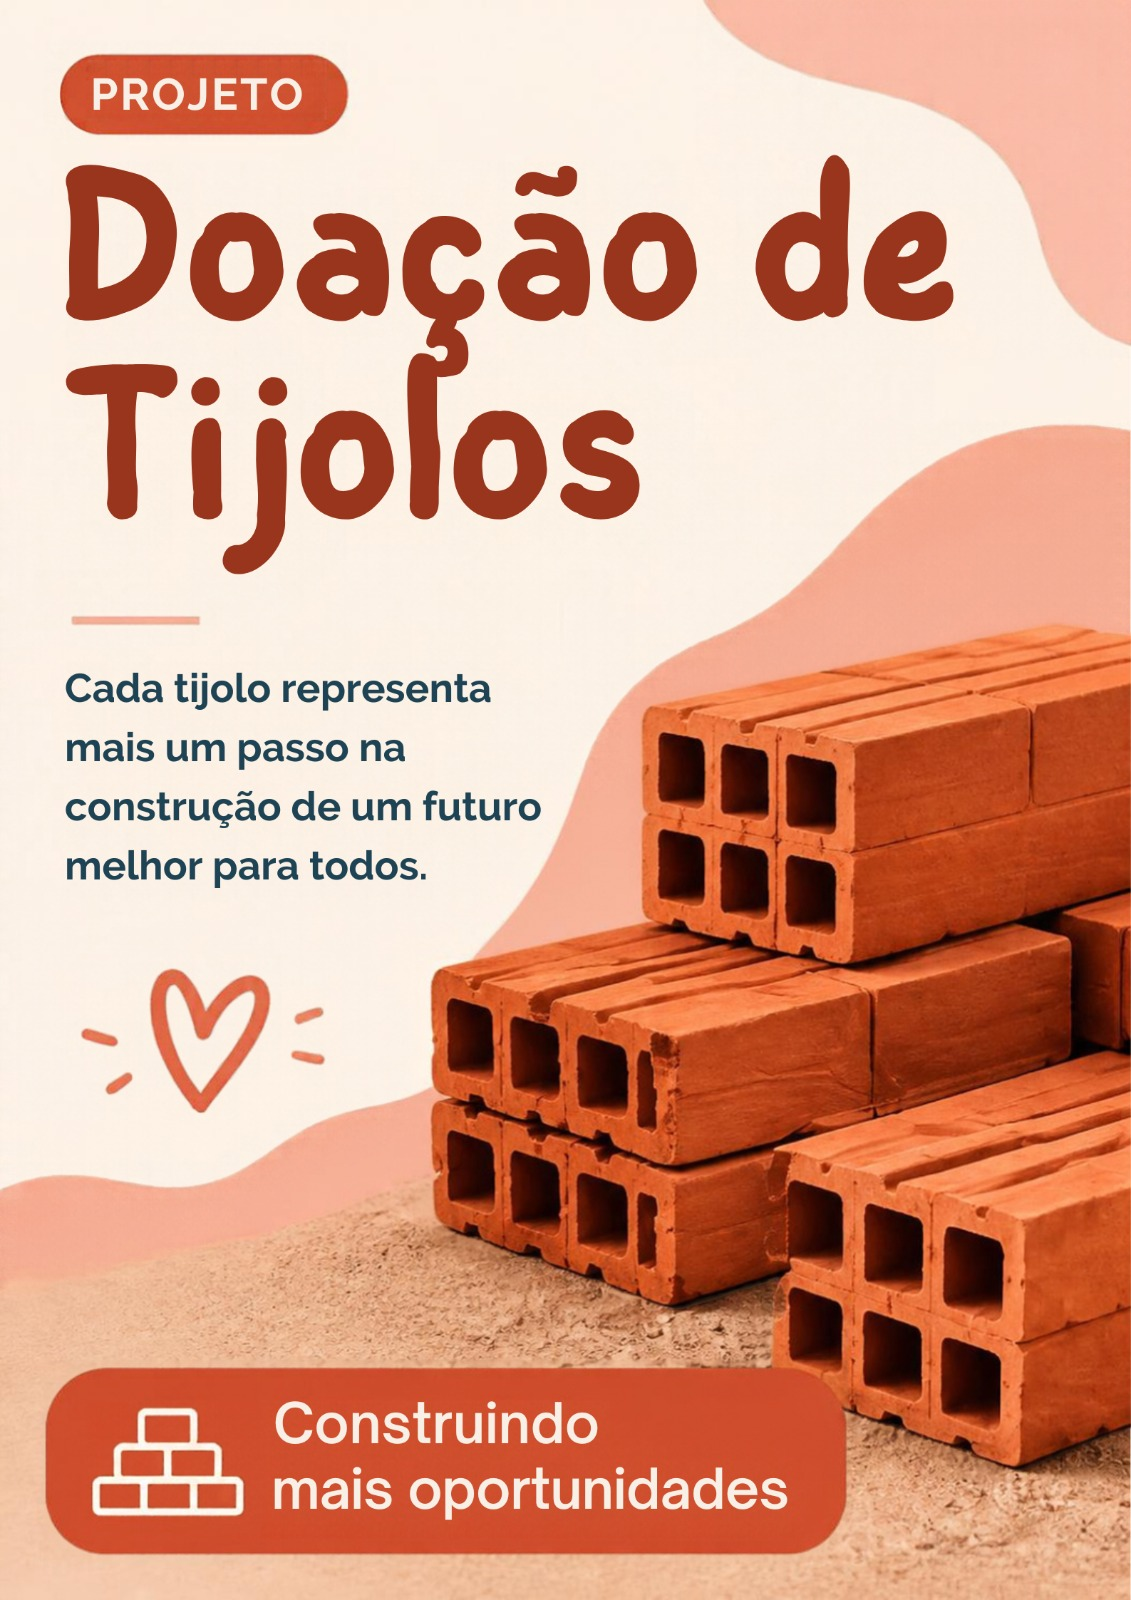
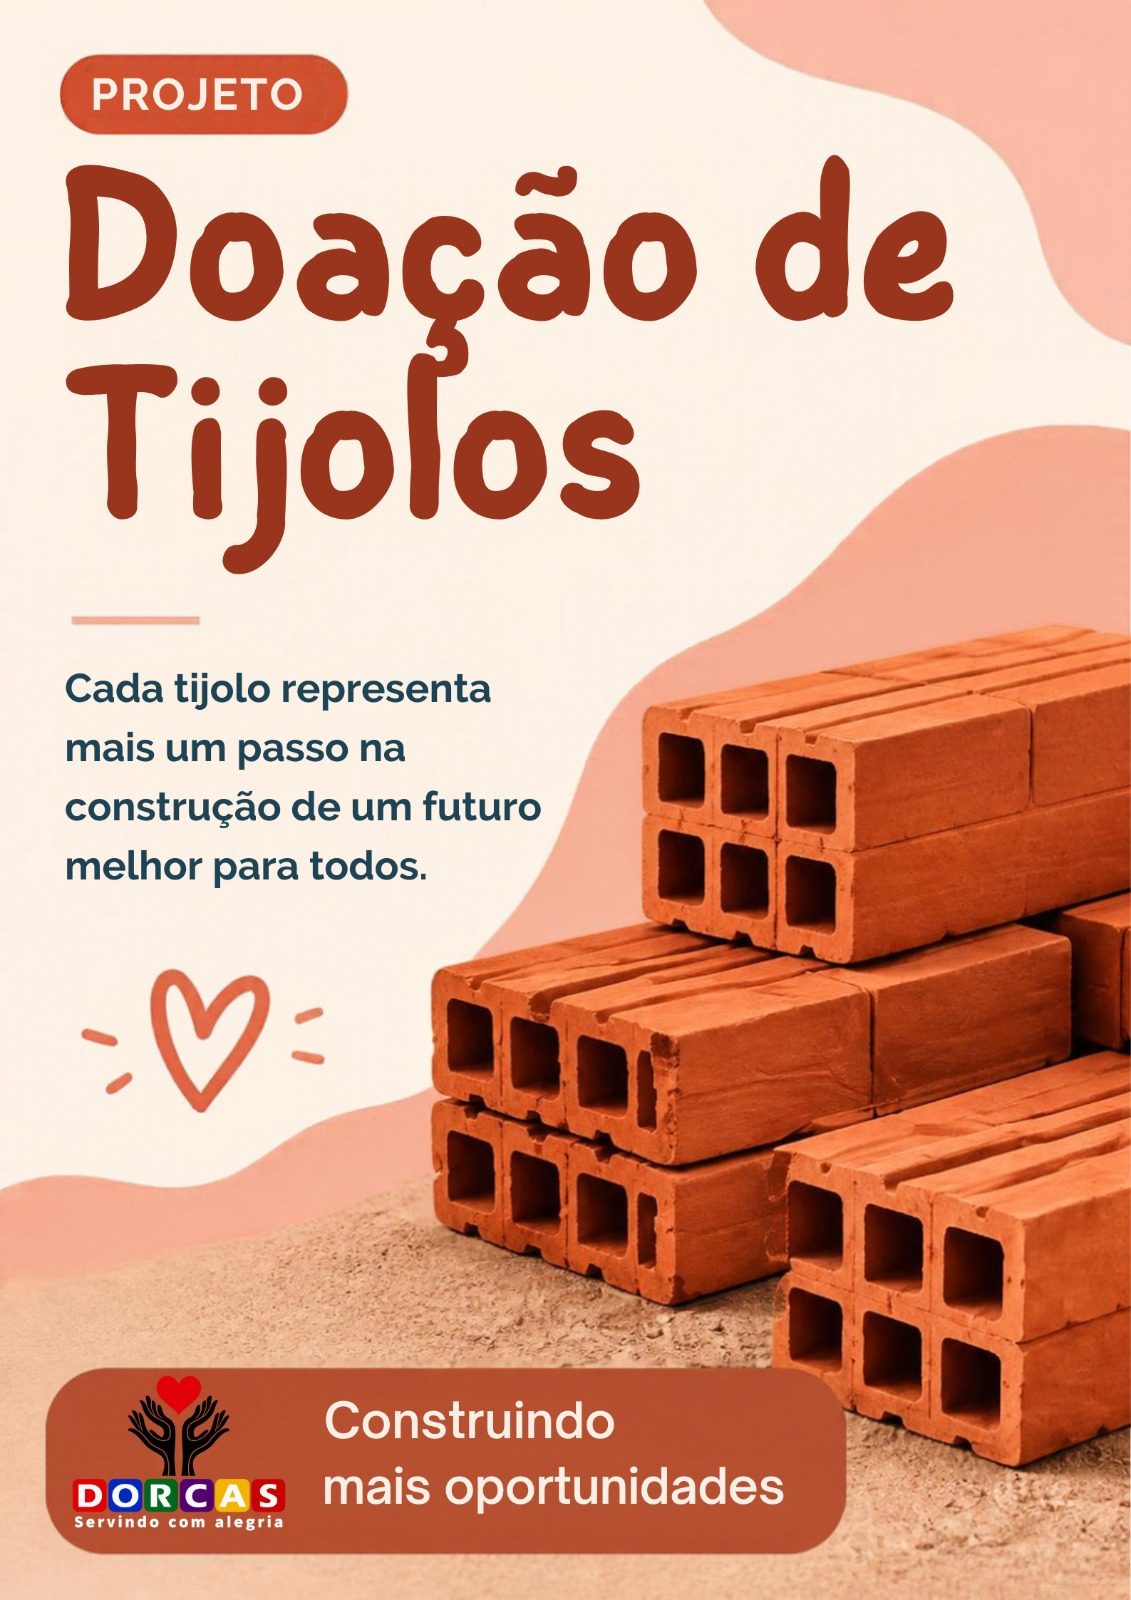
Update do projeto dorcas

Changed region(s): [[0.0309, 0.8438, 0.7427, 0.9688]]

diff --git a/components/footer.html b/components/footer.html
@@ -1,65 +1,96 @@
 <footer class="site-footer">
-    <div class="container footer-grid footer-grid-modern">
-
-        <div class="footer-brand-column">
-            <a class="brand light footer-brand" data-link="index.html">
-                <img class="site-logo" data-src="assets/images/logo1.png"
-                    alt="Projeto Social Dorcas — Servindo com alegria">
-            </a>
-            <p class="footer-intro">Servindo com alegria e transformando solidariedade em ações concretas.</p>
-            <address>Rua 17, Quadra 37, Lotes 04 e 05<br>Chácara Recreio Bahia Azul<br>Santo Antônio de Leverger –
-                MT<br>CEP 78180-000<br><span>CNPJ: 49.467.091/0001-69</span></address>
-        </div>
-
-        <div class="footer-column">
-            <h4>Navegação</h4>
-            <a data-link="pages/quem-somos.html">Quem Somos</a>
-            <a data-link="pages/projetos.html">Projetos</a>
-            <a data-link="pages/atividades.html">Atividades</a>
-            <a data-link="pages/transparencia.html">Transparência</a>
-            <a data-link="pages/contato.html">Contato</a>
-        </div>
-
-        <div class="footer-column">
-            <h4>Apoie a Dorcas</h4>
-            <button type="button" class="footer-action-link" data-open-help>Como Ajudar</button>
-            <button type="button" class="footer-action-link" data-open-pix>Doe via Pix</button>
-            <a data-link="pages/contato.html">Fale com a equipe</a>
-        </div>
-
-        <div class="footer-social-column">
-            <h4>Redes sociais e contato</h4>
-            <p>Acompanhe nossas ações e fale com a Associação.</p>
-            <div class="social-links" aria-label="Redes sociais e contato">
-                <a class="social-link"
-                    href="https://wa.me/?text=Ol%C3%A1%2C%20quero%20saber%20mais%20sobre%20a%20Dorcas." target="_blank"
-                    rel="noopener" aria-label="Conversar pelo WhatsApp" title="WhatsApp">
-                    <svg viewBox="0 0 24 24" aria-hidden="true">
-                        <path
-                            d="M20.5 3.5A11.8 11.8 0 0 0 12.1 0C5.6 0 .3 5.3.3 11.8c0 2.1.6 4.1 1.6 5.9L.2 24l6.5-1.7a11.8 11.8 0 0 0 5.4 1.3h.1c6.5 0 11.8-5.3 11.8-11.8 0-3.1-1.2-6.1-3.5-8.3ZM12.1 21.6c-1.7 0-3.4-.5-4.9-1.3l-.4-.2-3.8 1 1-3.7-.2-.4a9.8 9.8 0 1 1 8.3 4.6Zm5.4-7.4c-.3-.2-1.7-.8-2-.9-.3-.1-.5-.2-.7.2-.2.3-.8.9-1 1.1-.2.2-.4.2-.7.1-1.7-.8-2.8-1.5-3.9-3.4-.3-.5.3-.5.8-1.6.1-.2.1-.4 0-.6s-.7-1.6-.9-2.2c-.2-.6-.5-.5-.7-.5h-.6c-.2 0-.6.1-.9.4-.3.3-1.1 1.1-1.1 2.7s1.1 3.1 1.3 3.3c.2.2 2.2 3.4 5.4 4.8.8.3 1.4.5 1.9.7.8.2 1.5.2 2.1.1.7-.1 1.7-.7 1.9-1.4.2-.7.2-1.3.1-1.4-.1-.2-.3-.2-.6-.4Z" />
-                    </svg>
-                </a>
-                <a class="social-link" href="https://www.instagram.com/projetodorcasmt/" target="_blank" rel="noopener"
-                    aria-label="Instagram" title="Instagram">
-                    <svg viewBox="0 0 24 24" aria-hidden="true">
-                        <rect x="3" y="3" width="18" height="18" rx="5" />
-                        <circle cx="12" cy="12" r="4" />
-                        <circle cx="17.5" cy="6.5" r="1" class="icon-fill" />
-                    </svg>
-                </a>
-                <a class="social-link" href="https://www.facebook.com/" target="_blank" rel="noopener"
-                    aria-label="Facebook" title="Facebook">
-                    <svg viewBox="0 0 24 24" aria-hidden="true">
-                        <path d="M14 8h3V4h-3c-3.3 0-5 1.8-5 5v3H6v4h3v8h4v-8h3.2l.8-4H13V9c0-.7.3-1 1-1Z" />
-                    </svg>
-                </a>
-            </div>
-        </div>
-
-    </div> 
-
-    <div class="container copyright">
-        <span>&copy; 2026 Associação Projeto Social Dorcas</span>
-        <span>Servindo com alegria.</span>
+  <div class="container footer-grid footer-grid-modern">
+    <div class="footer-brand-column">
+      <a class="brand light footer-brand" data-link="index.html">
+        <img
+          class="site-logo"
+          data-src="assets/images/logo/logo.png"
+          alt="Logo do Projeto Social Dorcas — Servindo com alegria"
+        />
+      </a>
+      <p class="footer-intro">
+        Servindo com alegria e transformando solidariedade em ações concretas.
+      </p>
+      <address>
+        Rua 17, Quadra 37, Lotes 04 e 05<br />Chácara Recreio Bahia Azul<br />Santo
+        Antônio de Leverger – MT<br />CEP 78180-000<br /><span
+          >CNPJ: 49.467.091/0001-69</span
+        >
+      </address>
     </div>
+
+    <div class="footer-column">
+      <h4>Navegação</h4>
+      <a data-link="pages/quem-somos.html">Quem Somos</a>
+      <a data-link="pages/projetos.html">Projetos</a>
+      <a data-link="pages/atividades.html">Atividades</a>
+      <a data-link="pages/transparencia.html">Transparência</a>
+      <a data-link="pages/contato.html">Contato</a>
+    </div>
+
+    <div class="footer-column">
+      <h4>Apoie a Dorcas</h4>
+      <button type="button" class="footer-action-link" data-open-help>
+        Como Ajudar
+      </button>
+      <button type="button" class="footer-action-link" data-open-pix>
+        Doe via Pix
+      </button>
+      <a data-link="pages/contato.html">Fale com a equipe</a>
+    </div>
+
+    <div class="footer-social-column">
+      <h4>Redes sociais e contato</h4>
+      <p>Acompanhe nossas ações e fale com a Associação.</p>
+      <div class="social-links" aria-label="Redes sociais e contato">
+        <a
+          class="social-link"
+          href="https://wa.me/?text=Ol%C3%A1%2C%20quero%20saber%20mais%20sobre%20a%20Dorcas."
+          target="_blank"
+          rel="noopener"
+          aria-label="Conversar pelo WhatsApp"
+          title="WhatsApp"
+        >
+          <svg viewBox="0 0 24 24" aria-hidden="true">
+            <path
+              d="M20.5 3.5A11.8 11.8 0 0 0 12.1 0C5.6 0 .3 5.3.3 11.8c0 2.1.6 4.1 1.6 5.9L.2 24l6.5-1.7a11.8 11.8 0 0 0 5.4 1.3h.1c6.5 0 11.8-5.3 11.8-11.8 0-3.1-1.2-6.1-3.5-8.3ZM12.1 21.6c-1.7 0-3.4-.5-4.9-1.3l-.4-.2-3.8 1 1-3.7-.2-.4a9.8 9.8 0 1 1 8.3 4.6Zm5.4-7.4c-.3-.2-1.7-.8-2-.9-.3-.1-.5-.2-.7.2-.2.3-.8.9-1 1.1-.2.2-.4.2-.7.1-1.7-.8-2.8-1.5-3.9-3.4-.3-.5.3-.5.8-1.6.1-.2.1-.4 0-.6s-.7-1.6-.9-2.2c-.2-.6-.5-.5-.7-.5h-.6c-.2 0-.6.1-.9.4-.3.3-1.1 1.1-1.1 2.7s1.1 3.1 1.3 3.3c.2.2 2.2 3.4 5.4 4.8.8.3 1.4.5 1.9.7.8.2 1.5.2 2.1.1.7-.1 1.7-.7 1.9-1.4.2-.7.2-1.3.1-1.4-.1-.2-.3-.2-.6-.4Z"
+            />
+          </svg>
+        </a>
+        <a
+          class="social-link"
+          href="https://www.instagram.com/projetodorcasmt/"
+          target="_blank"
+          rel="noopener"
+          aria-label="Instagram"
+          title="Instagram"
+        >
+          <svg viewBox="0 0 24 24" aria-hidden="true">
+            <rect x="3" y="3" width="18" height="18" rx="5" />
+            <circle cx="12" cy="12" r="4" />
+            <circle cx="17.5" cy="6.5" r="1" class="icon-fill" />
+          </svg>
+        </a>
+        <a
+          class="social-link"
+          href="https://www.facebook.com/"
+          target="_blank"
+          rel="noopener"
+          aria-label="Facebook"
+          title="Facebook"
+        >
+          <svg viewBox="0 0 24 24" aria-hidden="true">
+            <path
+              d="M14 8h3V4h-3c-3.3 0-5 1.8-5 5v3H6v4h3v8h4v-8h3.2l.8-4H13V9c0-.7.3-1 1-1Z"
+            />
+          </svg>
+        </a>
+      </div>
+    </div>
+  </div>
+
+  <div class="container copyright">
+    <span>&copy; 2026 Associação Projeto Social Dorcas</span>
+    <span>Servindo com alegria.</span>
+  </div>
 </footer>

diff --git a/components/header.html b/components/header.html
@@ -1,26 +1,41 @@
 <header id="site-header">
-    <div class="container nav-wrap">
-        <a class="brand header-brand" data-link="index.html" aria-label="Projeto Social Dorcas — Servindo com alegria">
-            <span class="header-logo-frame">
-                <img class="site-logo header-logo" data-src="assets/images/logo.png" alt="">
-            </span>
-            <span class="header-brand-copy">
-                <!-- <strong>Projeto Social Dorcas</strong>  -->
-                <!-- <small>Servindo com alegria</small> -->
-            </span>
-        </a> <!-- Fecho do link colocado fora do comentário -->
+  <div class="container nav-wrap">
+    <a
+      class="brand header-brand"
+      data-link="index.html"
+      aria-label="Projeto Social Dorcas — Servindo com alegria"
+    >
+      <span class="header-logo-frame">
+        <img
+          class="site-logo header-logo"
+          data-src="assets/images/logo/logo.png"
+          alt="Logo do Projeto Social Dorcas"
+        />
+      </span>
+      <span class="header-brand-copy">
+        <!-- <strong>Projeto Social Dorcas</strong>  -->
+        <!-- <small>Servindo com alegria</small> -->
+      </span>
+    </a>
+    <!-- Fecho do link colocado fora do comentário -->
 
-        <button class="hamb" aria-label="Abrir menu" aria-expanded="false">☰</button>
+    <button class="hamb" aria-label="Abrir menu" aria-expanded="false">
+      ☰
+    </button>
 
-        <nav id="main-nav">
-            <a data-link="index.html" class="active">Início</a>
-            <a data-link="pages/quem-somos.html" class="">Quem Somos</a>
-            <a data-link="pages/projetos.html" class="">Projetos</a>
-            <a data-link="pages/atividades.html" class="">Atividades</a>
-            <a data-link="pages/transparencia.html" class="">Transparência</a>
-            <a data-link="pages/contato.html" class="">Contato</a>
-            <button class="nav-help-button" type="button" data-open-help>Como Ajudar</button>
-            <button class="btn btn-orange pix-page-link" type="button" data-open-pix>Doe via Pix</button>
-        </nav>
-    </div>
+    <nav id="main-nav">
+      <a data-link="index.html" class="active">Início</a>
+      <a data-link="pages/quem-somos.html" class="">Quem Somos</a>
+      <a data-link="pages/projetos.html" class="">Projetos</a>
+      <a data-link="pages/atividades.html" class="">Atividades</a>
+      <a data-link="pages/transparencia.html" class="">Transparência</a>
+      <a data-link="pages/contato.html" class="">Contato</a>
+      <button class="nav-help-button" type="button" data-open-help>
+        Como Ajudar
+      </button>
+      <button class="btn btn-orange pix-page-link" type="button" data-open-pix>
+        Doe via Pix
+      </button>
+    </nav>
+  </div>
 </header>
